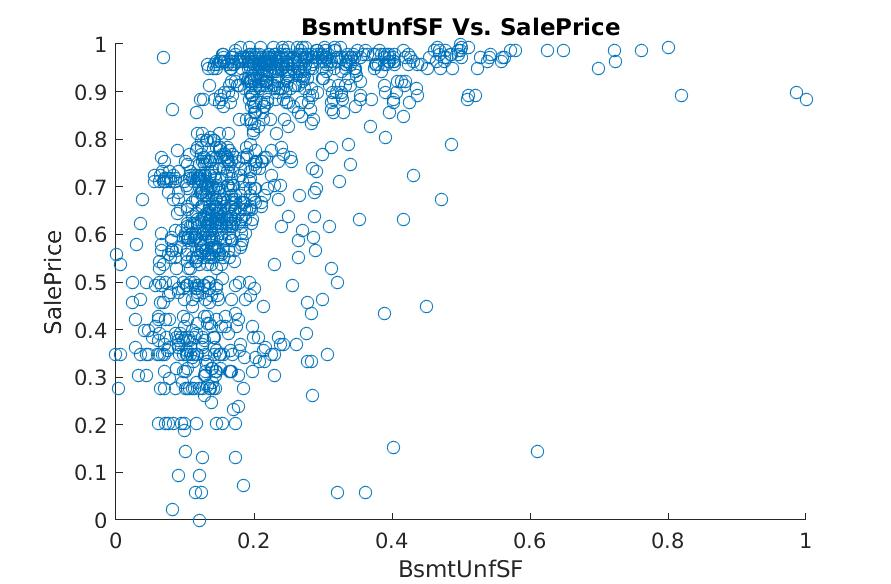
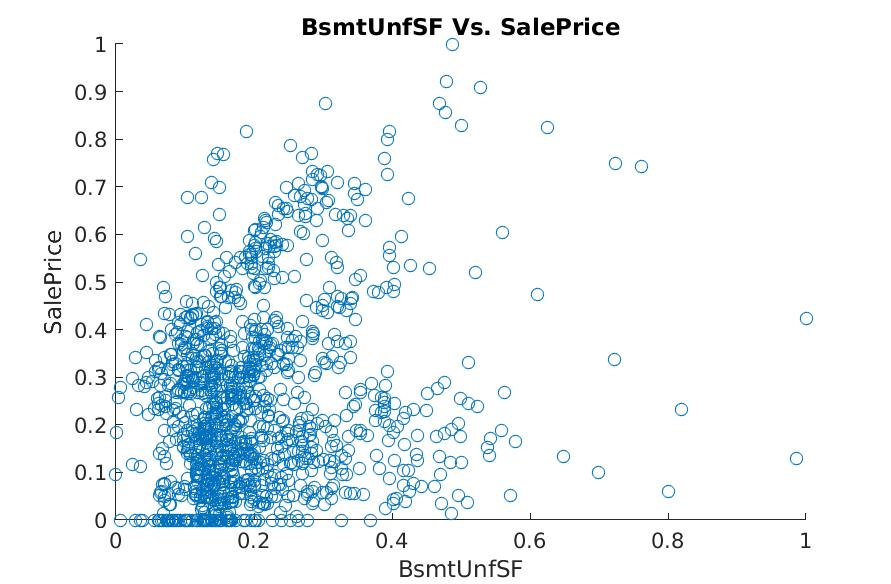
Corrected plots

diff --git a/MP1_housePrices/matlab/plot_data.m b/MP1_housePrices/matlab/plot_data.m
@@ -1,9 +1,9 @@
 Array=csvread("../dataset/housing_dataset_matlab.csv");
 
-fields = ["SalePrice", "LotFrontage", "OverallQual", "MasVnrArea", "YearBuilt", "BsmtUnfSF", "YearRemodAdd", "TotalBsmtSF", "BsmtFinSF1", "1stFlrSF"];
+fields = ["SalePrice","LotFrontage",  "LotArea", "OverallQual", "MasVnrArea", "YearBuilt", "BsmtUnfSF", "YearRemodAdd", "TotalBsmtSF", "BsmtFinSF1", "1stFlrSF"];
 col1 = Array(:,1);
 
-for i = 1:10
+for i = 2:11
     col2 = Array(:,i);
 
     scatter(col1, col2);
